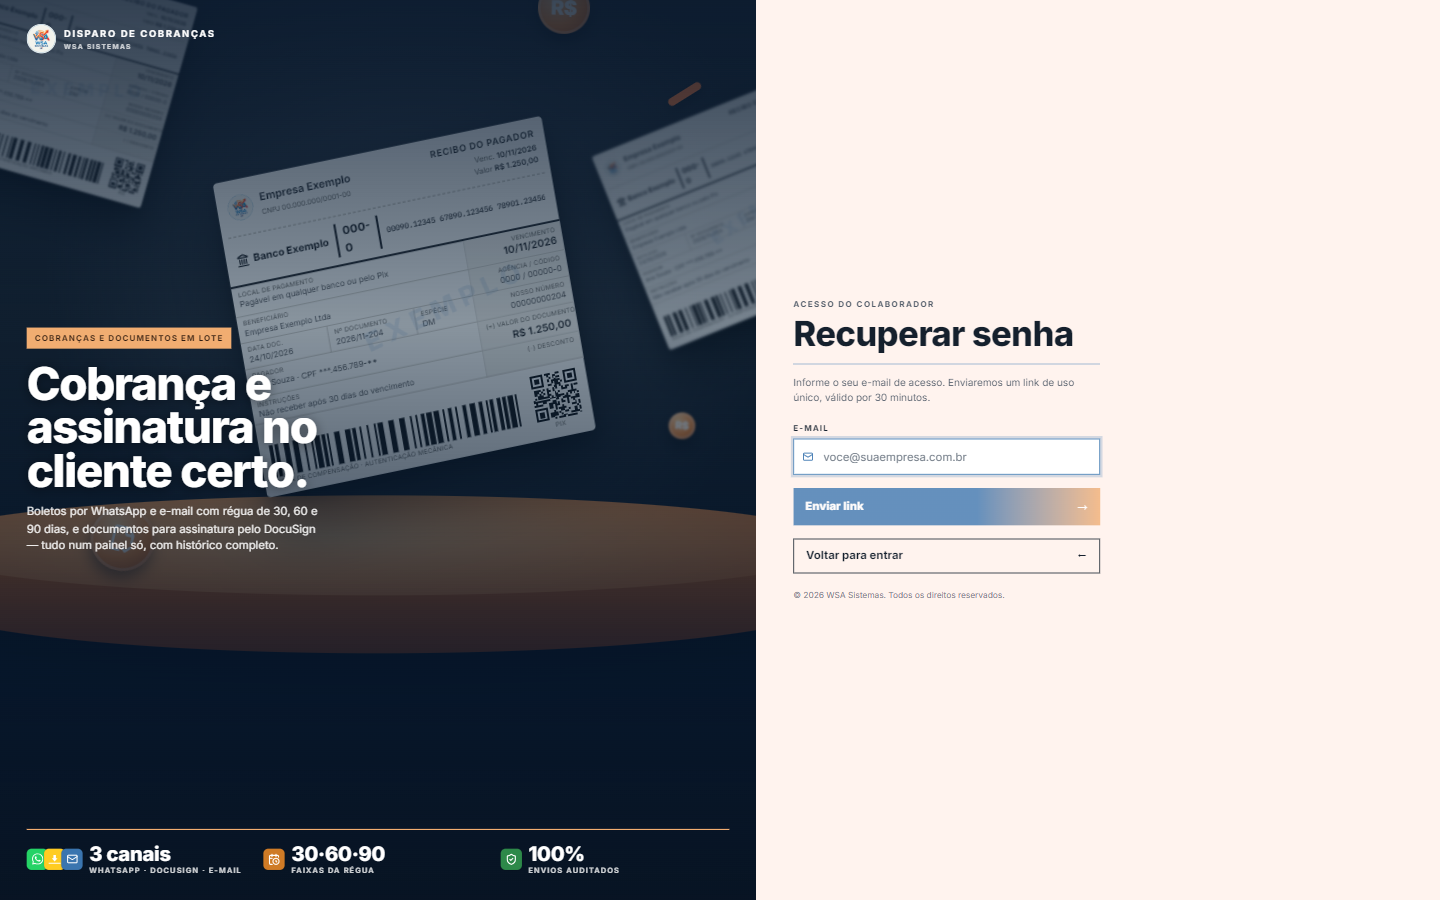
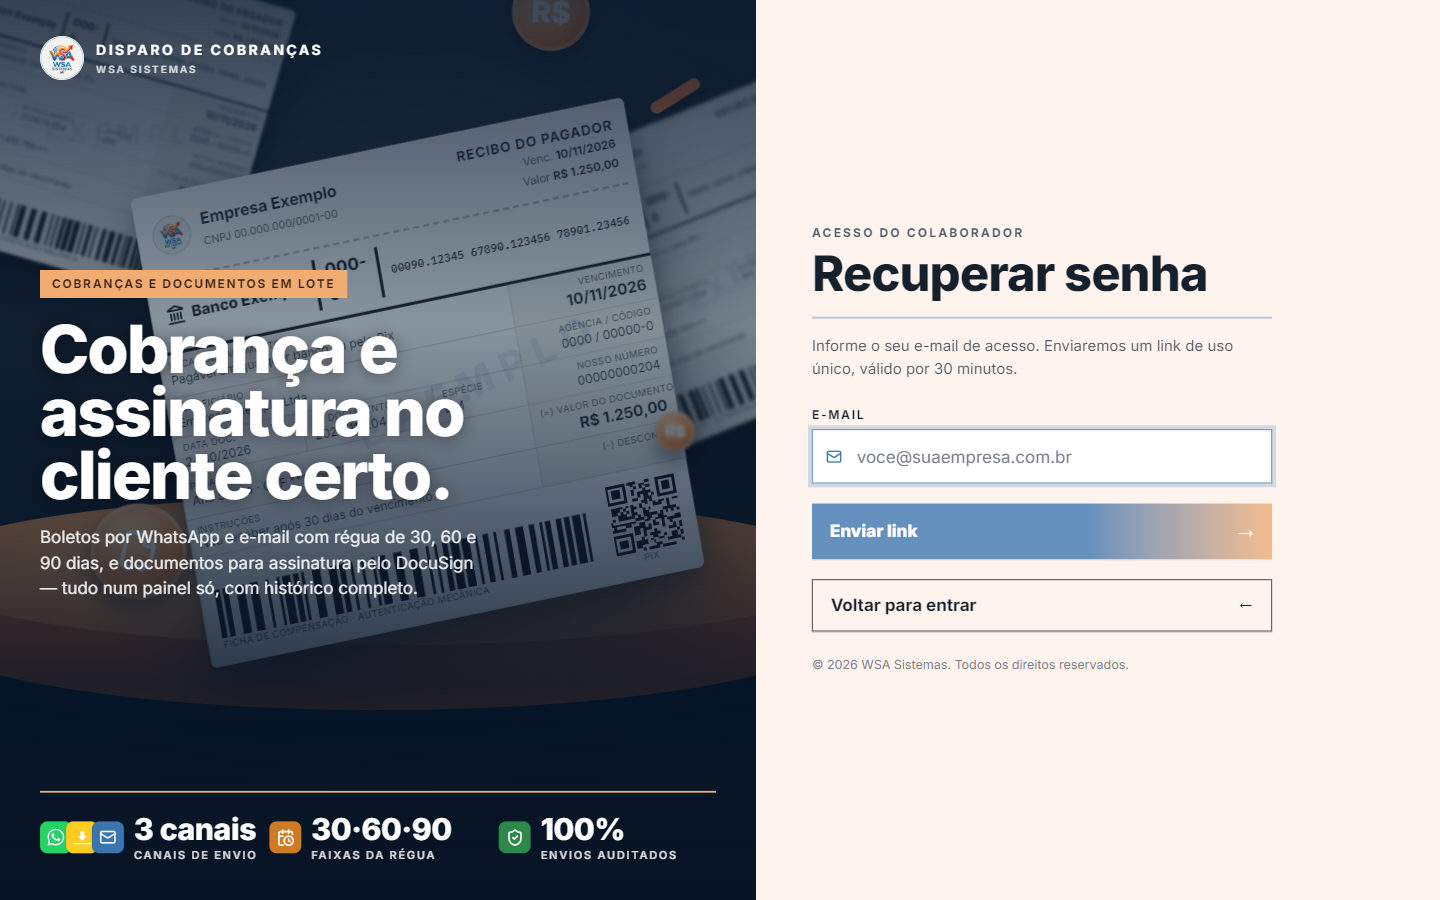
Login: posições e tamanhos medidos iguais ao ImobDesk (etiqueta, título, descrição, números, nota)

diff --git a/docs/mockups/login-final.html b/docs/mockups/login-final.html
@@ -5,33 +5,49 @@
 <meta name="viewport" content="width=device-width, initial-scale=1">
 <title>Login final — Disparo de Cobranças</title>
 <style>
-  :root { --ink: oklch(0.24 0.03 255); --muted: oklch(0.47 0.025 255); --bg: oklch(0.972 0.016 40); --azul: oklch(0.55 0.11 250); --abobora: oklch(0.8 0.11 62); }
+  :root { --ink: oklch(0.24 0.03 255); --muted: oklch(0.47 0.025 255); --bg: oklch(0.972 0.016 40); --abobora: oklch(0.8 0.11 62); }
   * { box-sizing: border-box; }
   body { margin: 0; background: var(--bg); color: var(--ink); font-family: Inter, -apple-system, "Segoe UI", sans-serif; }
-  header { padding: 28px 32px 8px; max-width: 1520px; margin: 0 auto; }
+  header { padding: 28px 32px 8px; max-width: 1560px; margin: 0 auto; }
   header p { margin: 0; font-size: 12px; font-weight: 700; letter-spacing: .18em; text-transform: uppercase; color: var(--muted); }
   header h1 { margin: 8px 0 6px; font-size: 36px; font-weight: 800; letter-spacing: -.02em; }
   header span { font-size: 15px; color: var(--muted); }
-  main { max-width: 1520px; margin: 0 auto; padding: 16px 32px 48px; display: grid; gap: 28px; }
+  main { max-width: 1560px; margin: 0 auto; padding: 16px 32px 48px; display: grid; gap: 32px; }
   figure { margin: 0; }
   figcaption { display: flex; align-items: center; gap: 10px; margin-bottom: 10px; font-size: 14px; font-weight: 700; }
   figcaption b { background: var(--abobora); color: oklch(0.25 0.04 50); padding: 4px 10px; font-size: 11px; letter-spacing: .14em; text-transform: uppercase; }
+  figcaption.ref b { background: oklch(0.88 0.02 255); color: var(--ink); }
   img { display: block; width: 100%; height: auto; border: 1px solid oklch(0.82 0.022 40); box-shadow: 0 18px 40px -24px rgb(0 0 0 / .35); }
+  .par { display: grid; grid-template-columns: 1fr 1fr; gap: 20px; }
   .linha { display: grid; grid-template-columns: minmax(0, 1fr) 320px; gap: 28px; align-items: start; }
-  @media (max-width: 1000px) { .linha { grid-template-columns: 1fr; } }
+  table { border-collapse: collapse; font-size: 14px; background: #fff; }
+  th, td { border: 1px solid oklch(0.905 0.02 40); padding: 6px 12px; text-align: left; }
+  th { font-size: 11px; letter-spacing: .12em; text-transform: uppercase; color: var(--muted); }
+  @media (max-width: 1100px) { .par, .linha { grid-template-columns: 1fr; } }
 </style>
 </head>
 <body>
 <header>
-  <p>Resultado final · implementado</p>
+  <p>Para aprovação · implementado no sistema</p>
   <h1>Tela de entrada — Disparo de Cobranças</h1>
-  <span>Capturas do sistema rodando (localhost), sem sessão, zoom 100%. Design system da entrada do ImobDesk + cena do boleto.</span>
+  <span>Capturas do sistema rodando, sem sessão, a 100% (1440 × 900), ao lado da entrada do ImobDesk como referência.</span>
 </header>
 <main>
-  <figure><figcaption><b>1</b> Computador · Entrar (1440 × 900)</figcaption><img src="login-final/1-entrar.png" alt="Tela de entrada no computador"></figure>
-  <figure><figcaption><b>2</b> Computador · Senha errada</figcaption><img src="login-final/2-erro.png" alt="Aviso de e-mail ou senha incorretos"></figure>
+  <div class="par">
+    <figure><figcaption class="ref"><b>Referência</b> ImobDesk (imobdesk.imobsystems.com.br/login)</figcaption><img src="login-final/0-referencia-imobdesk.png" alt="Tela de entrada do ImobDesk"></figure>
+    <figure><figcaption><b>1</b> Disparo de Cobranças · Entrar</figcaption><img src="login-final/1-entrar.png" alt="Tela de entrada do Disparo de Cobranças"></figure>
+  </div>
+  <table>
+    <tr><th>Medida (px, 1440 × 900)</th><th>ImobDesk</th><th>Disparo de Cobranças</th></tr>
+    <tr><td>Etiqueta: topo / altura / fonte</td><td>268 / 28 / 12</td><td>270 / 28 / 12</td></tr>
+    <tr><td>Título: topo / altura / fonte</td><td>316 / 189 / 66</td><td>318 / 189 / 66</td></tr>
+    <tr><td>Descrição: topo / altura / fonte</td><td>523 / 77 / 17</td><td>525 / 77 / 17</td></tr>
+    <tr><td>Números: topo / altura</td><td>788 / 76</td><td>791 / 73</td></tr>
+    <tr><td>Campos: largura × altura</td><td>460 × 54</td><td>460 × 54</td></tr>
+  </table>
+  <figure><figcaption><b>2</b> Senha errada</figcaption><img src="login-final/2-erro.png" alt="Aviso de e-mail ou senha incorretos"></figure>
   <div class="linha">
-    <figure><figcaption><b>3</b> Computador · Recuperar senha</figcaption><img src="login-final/3-recuperar.png" alt="Tela de recuperar senha"></figure>
+    <figure><figcaption><b>3</b> Recuperar senha</figcaption><img src="login-final/3-recuperar.png" alt="Tela de recuperar senha"></figure>
     <figure><figcaption><b>4</b> Celular (390 px)</figcaption><img src="login-final/4-celular.png" alt="Tela de entrada no celular"></figure>
   </div>
 </main>

diff --git a/src/styles.css b/src/styles.css
@@ -387,6 +387,7 @@
 }
 .mpl-tag {
   display: inline-block;
+  line-height: normal;
   margin-bottom: 20px;
   padding: 7px 12px;
   background: var(--mpl-abobora);
@@ -424,13 +425,14 @@
 }
 .mpl-metrics li { display: grid; grid-template-columns: auto 1fr; align-items: center; column-gap: 10px; }
 .mpl-metrics li > span { grid-row: span 2; display: flex; align-items: center; }
-.mpl-metrics b { display: block; font-size: 30px; font-weight: 800; letter-spacing: -0.01em; line-height: 1.15; }
+.mpl-metrics b { display: block; font-size: 30px; font-weight: 800; letter-spacing: -0.01em; line-height: normal; }
 .mpl-metrics small {
   font-size: 11px;
   font-weight: 600;
   letter-spacing: 0.16em;
   text-transform: uppercase;
   color: rgb(255 255 255 / 0.84);
+  white-space: nowrap;
 }
 .mpl-panel {
   display: flex;
@@ -444,6 +446,7 @@
 .mpl-panel__conteudo > * { animation: ent-sobe 0.6s cubic-bezier(0.2, 0.7, 0.3, 1) both; }
 .mpl-kicker {
   margin: 0;
+  line-height: normal;
   font-size: 12px;
   font-weight: 700;
   letter-spacing: 0.18em;
@@ -469,6 +472,8 @@
   line-height: 1.55;
   color: var(--mpl-g3);
 }
+/* a nota fica dentro do form (gap de 20 px): 10 + 20 = os 30 px do ImobDesk */
+.mpl-form > .mpl-note { margin-top: 10px; }
 .mpl-legal { margin: 0; font-size: 12.5px; color: var(--mpl-g2); }
 
 /* Tablet e celular: a cena vira uma faixa acima do formulário (igual ao ImobDesk) */

diff --git a/src/components/login-layout.tsx b/src/components/login-layout.tsx
@@ -75,7 +75,7 @@ export function LoginLayout({ children }: { children: ReactNode }) {
               </span>
             }
             valor="3 canais"
-            rotulo="WhatsApp · DocuSign · E-mail"
+            rotulo="Canais de envio"
           />
           <Numero
             icone={
